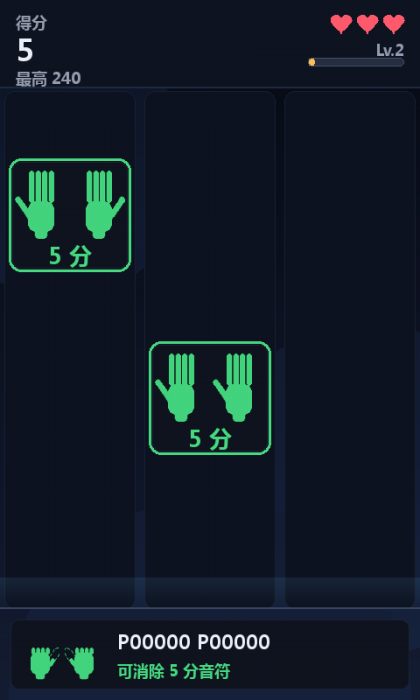
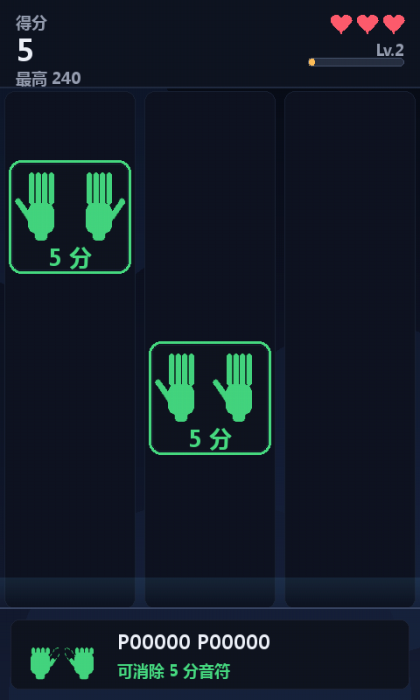
feat: 30 秒时固定生成一个红色 20 分音符
- 进入第二阶段的瞬间强制生成一个 20 分音符（每局一次），之后直到 60 s 不再出现红色
- 重开时重置该标记；文档补充说明

diff --git a/test_rhythm_logic.py b/test_rhythm_logic.py
@@ -454,6 +454,43 @@ def test_note_generation_distribution():
                                sum(easy_values) / len(easy_values)))
 
 
+def test_red_milestone():
+    game = RhythmGame(seed=14, max_chances=99,
+                      highscore=HighScoreStore(os.devnull))
+    ramp = game.difficulty.ramp_seconds
+    game.start()
+    spawned = []
+    original = game._spawn_note
+
+    def spawn(value=None):
+        note = original(value)
+        spawned.append(note)
+        return note
+
+    game._spawn_note = spawn
+
+    advance(game, ramp * STAGE_1 - 1.0)
+    check("no red note before 30 s", not any(
+        note.value == 20 for note in spawned),
+        str([note.value for note in spawned]))
+    advance(game, 2.0)
+    reds = [note for note in spawned if note.value == 20]
+    check("exactly one red note appears at 30 s", len(reds) == 1,
+          "{} red(s) at {:.1f} s".format(len(reds), game.elapsed))
+    check("the milestone red note is a valid 20 point code",
+          bool(reds) and value_of_code(reds[0].code) == 20,
+          reds[0].code if reds else "")
+    check("the milestone is only spawned once", game.red_introduced)
+
+    advance(game, ramp * STAGE_2 - game.elapsed)
+    check("no extra red notes in the middle stage",
+          sum(1 for note in spawned if note.value == 20) == 1,
+          str([note.value for note in spawned]))
+
+    game.restart()
+    check("restart clears the milestone flag", game.red_introduced is False)
+
+
 # ---------------------------------------------------------------------------
 # Gameplay
 # ---------------------------------------------------------------------------

diff --git a/game_core.py b/game_core.py
@@ -279,6 +279,7 @@ class RhythmGame(object):
         self.best_combo = 0
         self.hits = 0
         self.misses = 0
+        self.red_introduced = False
         self.elapsed = 0.0
         self.difficulty.at(0.0)
         self.notes = []
@@ -302,6 +303,7 @@ class RhythmGame(object):
         self.best_combo = 0
         self.hits = 0
         self.misses = 0
+        self.red_introduced = False
         self.elapsed = 0.0
         self.difficulty.at(0.0)
         self.notes = []
@@ -379,6 +381,13 @@ class RhythmGame(object):
         if self.hit_cooldown > 0:
             self.hit_cooldown = max(0.0, self.hit_cooldown - dt)
 
+        # One red note is introduced exactly when the second stage begins
+        # (30 s of the default 90 s ramp), even though red notes only start
+        # appearing randomly in the last stage.
+        if not self.red_introduced and self.difficulty.progress >= STAGE_1:
+            self._spawn_note(value=20)
+            self.red_introduced = True
+
         # Spawn.
         self.spawn_timer -= dt
         guard = 0
@@ -435,8 +444,9 @@ class RhythmGame(object):
     def _next_interval(self):
         return self.difficulty.spawn_interval() * self.rng.uniform(0.85, 1.15)
 
-    def _spawn_note(self):
-        value = self._pick_value()
+    def _spawn_note(self, value=None):
+        if value is None:
+            value = self._pick_value()
         code = random_code(value, self.rng)
         lane = self._pick_lane()
         x = lane * self.lane_width + (self.lane_width - self.note_width) / 2.0

diff --git a/docs/实现报告.md b/docs/实现报告.md
@@ -72,10 +72,12 @@ READY --(P11111P11111 保持 0.7 s)--> PLAYING --(机会用尽)--> OVER
 | ③ 红色 + 极限 | 60–90 s | 红色权重 0 → 0.25，5/10/15 同步变为 0.20 / 0.30 / 0.25；间隔 1.10 → 0.55 s、速度 175 → 290 px/s 推到极限 |
 
 - 第二阶段刻意不到极限（1.10 s / 175 px/s），最后 30 秒才把三个参数一起推到终点。
+- 进入第二阶段的那一刻（30 s）固定生成 **一个红色 20 分音符**，让玩家提前见到红色；
+  之后直到 60 s 都不会再有红色，60 s 起红色才按概率出现。
 - 单个音符的速度为 `基准 × (1 + 0.55·u^k)`，k 随速度提升从 1.0 降到 0.35：同一时刻落下的音符速度不同。
 - 基准速度本身在 30 s 后叠加缓慢波动（幅度随速度爬升到 ±9%），所以下落速度既有音符间的差异，
   也有时间上的起伏。
-- 开局只有绿色 5 分音符，红色 20 分只在 60 s 之后出现。
+- 开局只有绿色 5 分音符，红色 20 分只在 60 s 之后才随机出现（30 s 的固定红音符除外）。
 
 ## 二、实现结构
 
@@ -140,13 +142,13 @@ READY --(P11111P11111 保持 0.7 s)--> PLAYING --(机会用尽)--> OVER
 ### 5.1 单元测试（`test_rhythm_logic.py`）
 
 ```
-164 checks, 0 failed
+170 checks, 0 failed
 RESULT: all passed
 ```
 
 覆盖：四档数量 5/5/16/230/256、分类表自洽性（含「N 手拇指必须伸出」全表断言）、编解码与非法输入、
 拇指朝向映射、合成 landmark 分类（张开/握拳/单指/三指）、3D 关节角阈值（90°/150° 折叠、
-DIP 勾指、朝镜头伸直、拇指搭掌）、开始姿势判定（必须正好是 P11111P11111）、平滑表决、难度三段式（0-30 s 只加音符种类且
+DIP 勾指、朝镜头伸直、拇指搭掌）、开始姿势判定（必须正好是 P11111P11111）、平滑表决、30 s 固定红音符、难度三段式（0-30 s 只加音符种类且
 无红色、30-60 s 间隔与速度同步但不到极限、60-90 s 红色与极限同步、速度波动）、
 生成概率分布、命中/冷却/取最靠下、漏掉/机会/结束、重开必须重新保持张开、
 最高分持久化（含损坏 JSON 回退）、生成器避开拥挤轨道。
@@ -194,7 +196,7 @@ RESULT: all 31 checks passed
 ## 七、运行与复现
 
 ```bat
-:: 逻辑单元测试（164 项）
+:: 逻辑单元测试（170 项）
 .venv\Scripts\python.exe test_rhythm_logic.py
 
 :: 环境自检（31 项）

diff --git a/README.md b/README.md
@@ -107,7 +107,8 @@ run_game.bat
 
 - 每个音符的下落速度都在当时的基准速度上随机浮动（最高 +55%），所以同一时刻落下的音符快慢不同；
 - 30 秒后基准速度还会缓慢波动，幅度随速度提升增大到 ±9%；
-- 开局只有绿色 5 分音符，难度尽可能低；红色 20 分只在最后 30 秒出现。
+- **30 秒时固定生成一个红色 20 分音符**（第一次见到红色），之后 30–60 s 不再出现红色；
+- 开局只有绿色 5 分音符，难度尽可能低；红色 20 分从 60 s 起才按概率出现。
 
 ## 项目结构
 
@@ -130,7 +131,7 @@ run_game.bat
 ## 测试
 
 ```bat
-:: 逻辑单元测试（164 项）
+:: 逻辑单元测试（170 项）
 .venv\Scripts\python.exe test_rhythm_logic.py
 
 :: 环境自检（31 项）
